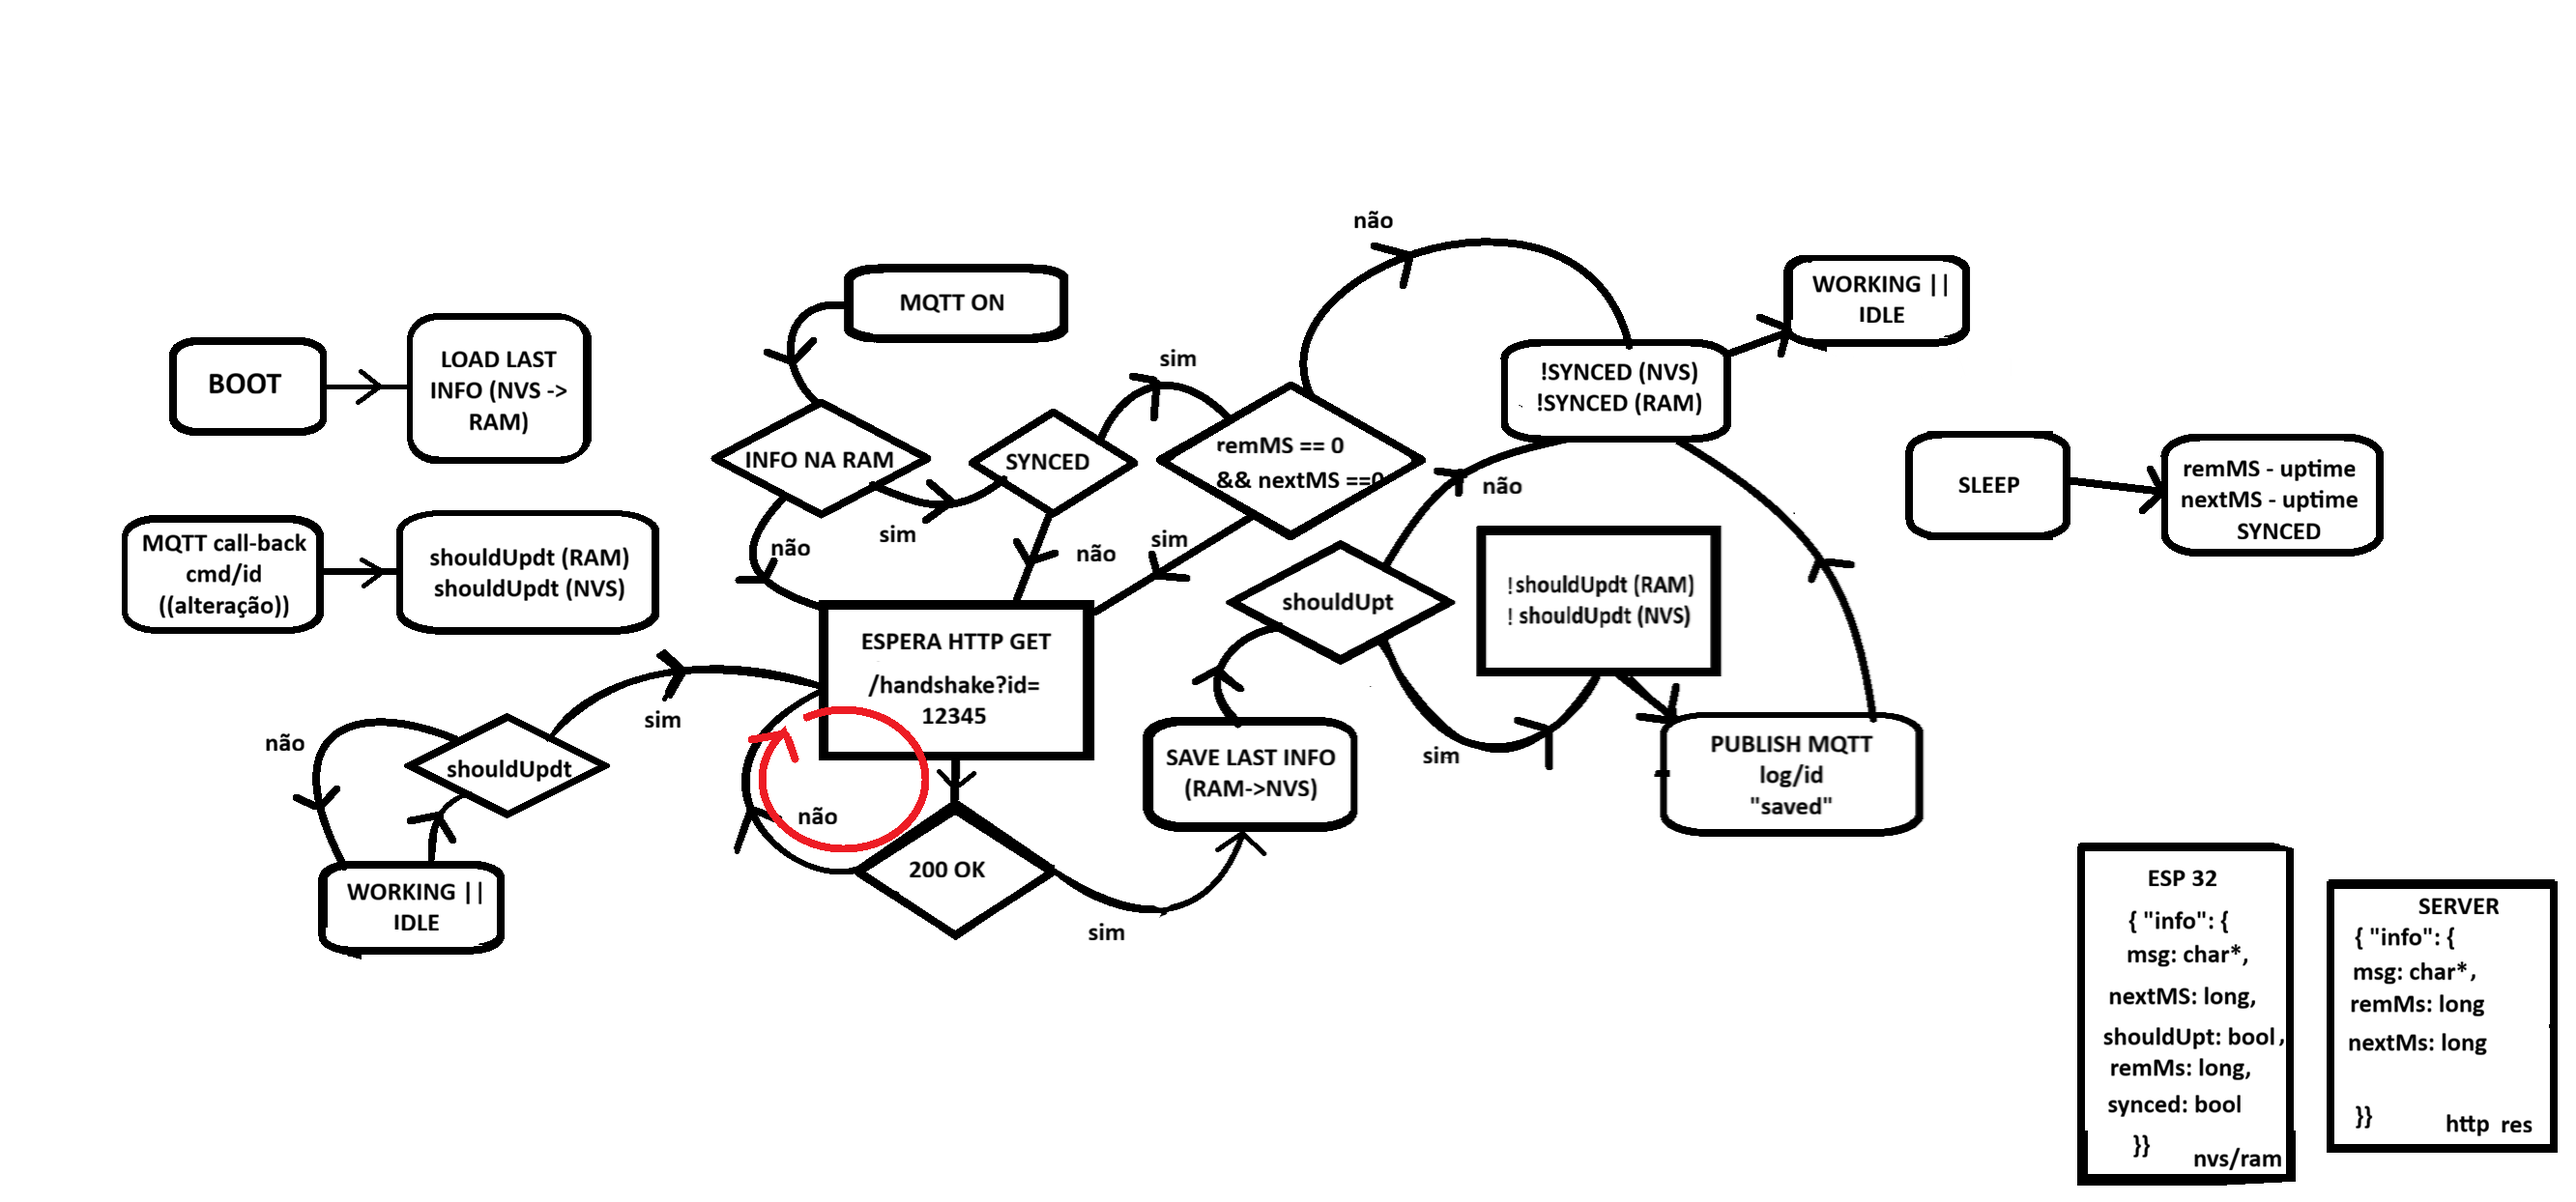
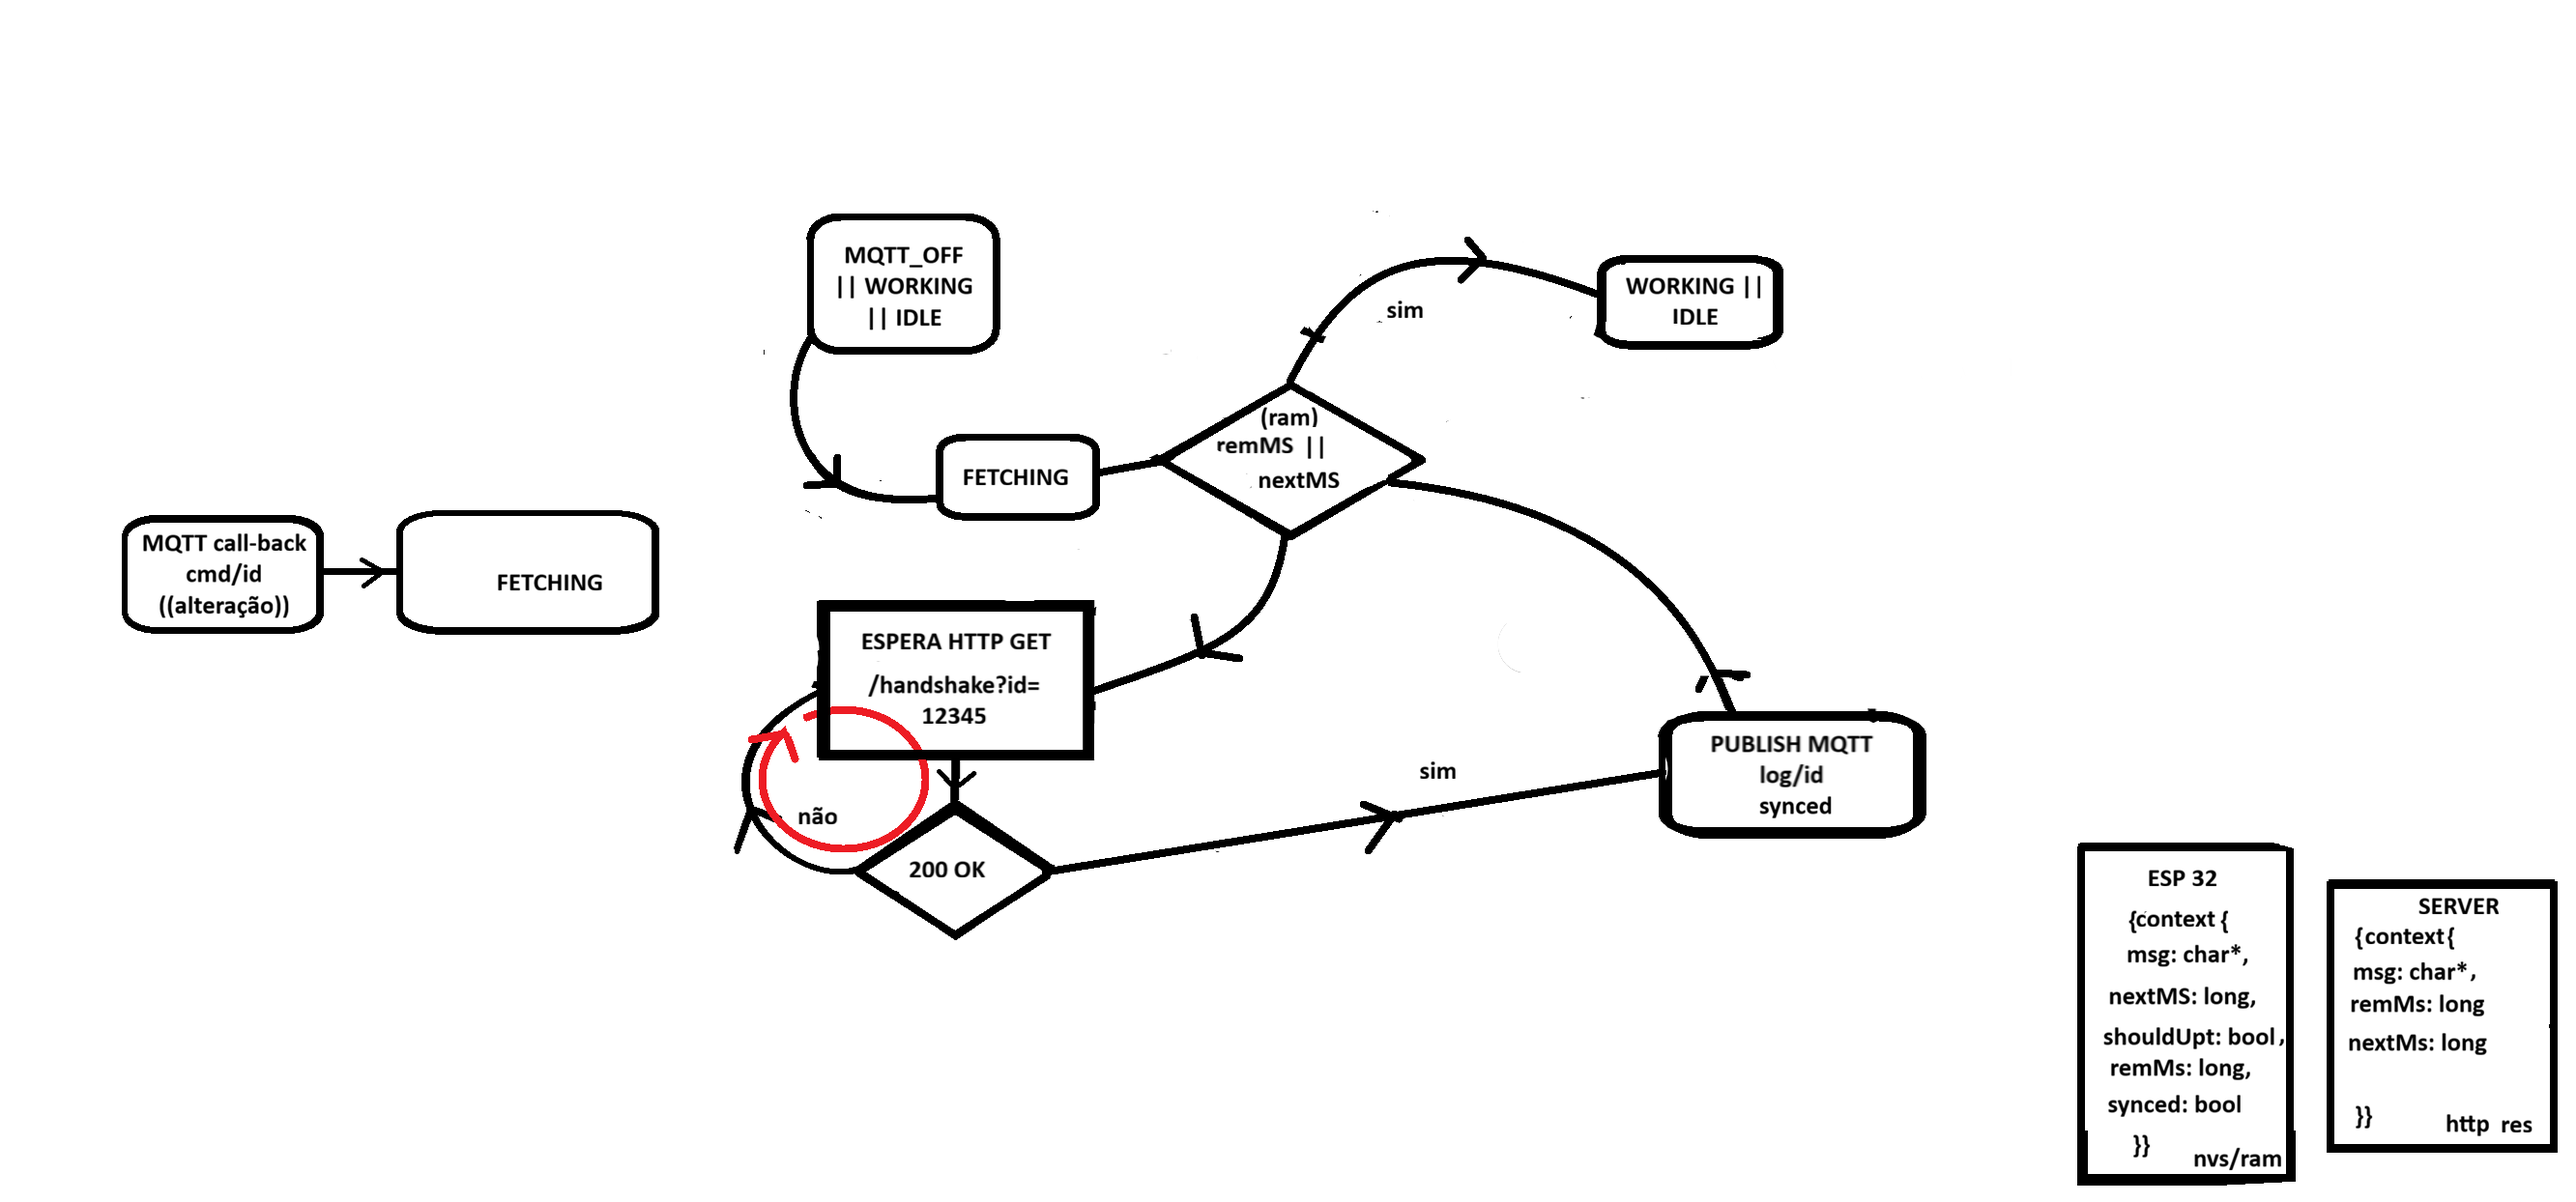
feat: fetch de informações sobre turmas

diff --git a/src/Network.cpp b/src/Network.cpp
@@ -2,6 +2,8 @@
 #include "Display.h"
 #include "Config.h"
 #include "Globals.h"
+#include "Power.h"
+#include "MQTT.h"
 
 namespace network
 {
@@ -27,7 +29,7 @@ namespace network
 
             HTTPClient http;
             http.setTimeout(REST_TIMEOUT_MS);
-            http.begin(REST_URL);
+            http.begin(REST_POST_URL);
 
             http.addHeader("Content-Type", "image/jpeg");
             http.addHeader("X-Device-Id", deviceId);
@@ -43,6 +45,55 @@ namespace network
             }
 
             return resp == HTTP_CODE_OK;
+        }
+
+        bool getContext()
+        {
+            using namespace display;
+
+            if (!isConnected())
+            {
+                return false;
+            }
+
+            HTTPClient http;
+            http.setTimeout(REST_TIMEOUT_MS);
+            http.begin(String(REST_GET_URL) + String(deviceId));
+
+            int resp;
+            const TickType_t start = xTaskGetTickCount();
+            const TickType_t timeout = pdMS_TO_TICKS(REST_TIMEOUT_MS);
+
+            while (resp != HTTP_CODE_OK)
+            {
+                resp = http.GET();
+
+                if (xTaskGetTickCount() - start > timeout)
+                {
+                    sendDisplayMessage("Resposta inválida do servidor! (" + resp + ')', 3000, &ICON_SAD);
+                }
+
+                sendDisplayMessage("Coletando informações da turma...", 0, &ICON_SERVER);
+
+                vTaskDelay(pdMS_TO_TICKS(500));
+            }
+
+            JsonDocument doc;
+            DeserializationError error = deserializeJson(doc, http.getStream());
+            http.end();
+
+            if (error)
+            {
+                sendDisplayMessage("Erro ao analisar informações!", 3000, &ICON_SAD);
+                return false;
+            }
+
+            const char *msgTemp = doc["chair"] | "";
+            strlcpy(context.chair, msgTemp, sizeof(context.chair));
+            context.msForNext = doc["msForNext"] | 0;
+            context.msRemaining = doc["msRemaining"] | 0;
+
+            return true;
         }
 
         bool connWifi()
@@ -117,6 +168,7 @@ namespace network
 
         while (true)
         {
+
             if (checkSleepEvent(delay))
             {
                 break;
@@ -132,22 +184,30 @@ namespace network
                 {
                     setState(SystemState::NET_ON);
                 }
-
                 continue;
             }
 
-            if (checkState(SystemState::WAITING_SERVER))
+            if (checkState(SystemState::FETCHING))
+            {
+                if (context.chair && (context.msForNext || context.msRemaining))
+                {
+                    setState(power::checkIdle() ? SystemState::IDLE : SystemState::WORKING);
+                }
+                else if (getContext())
+                {
+                    mqtt::publish(mqtt::topicLogs, "{\"synced\":true}", true);
+                }
+            }
+            else if (checkState(SystemState::WAITING_SERVER))
             {
                 if (now - lastReqTick > waitInterval)
                 {
                     setState(SystemState::WORKING);
                 }
-
-                continue;
             }
-
-            if (checkState(SystemState::WORKING) &&
-                now - lastReqTick > reqInterval)
+            else if (checkState(SystemState::WORKING) &&
+                     now - lastReqTick > reqInterval &&
+                     context.msRemaining)
             {
                 lastReqTick = now;
 

diff --git a/src/Globals.cpp b/src/Globals.cpp
@@ -14,73 +14,6 @@ TaskHandle_t TaskNetwork;
 TaskHandle_t TaskMqtt;
 AttendanceContext context = AttendanceContext{};
 
-void saveContext(uint8_t flags)
-{
-    Preferences prefs;
-    prefs.begin("context", false);
-
-    if (flags & MSG)
-        prefs.putString("msg", context.msg);
-
-    if (flags & MS_NEXT)
-        prefs.putULong("msForNext", context.msForNext);
-
-    if (flags & MS_REM)
-        prefs.putULong("msRemaining", context.msRemaining);
-
-    if (flags & SYNCED)
-        prefs.putBool("synced", context.synced);
-
-    if (flags & UPDATE)
-        prefs.putBool("shouldUpdate", context.shouldUpdate);
-
-    prefs.end();
-}
-
-bool loadContext(uint8_t flags)
-{
-    Preferences prefs;
-
-    if (!prefs.begin("context", true))
-        return false;
-
-    bool foundAny = false;
-
-    if ((flags & MSG) && prefs.isKey("msg"))
-    {
-        prefs.getString("msg", context.msg, sizeof(context.msg));
-        foundAny = true;
-    }
-
-    if ((flags & MS_NEXT) && prefs.isKey("msForNext"))
-    {
-        context.msForNext = prefs.getULong("msForNext");
-        foundAny = true;
-    }
-
-    if ((flags & MS_REM) && prefs.isKey("msRemaining"))
-    {
-        context.msRemaining = prefs.getULong("msRemaining");
-        foundAny = true;
-    }
-
-    if ((flags & SYNCED) && prefs.isKey("synced"))
-    {
-        context.synced = prefs.getBool("synced");
-        foundAny = true;
-    }
-
-    if ((flags & UPDATE) && prefs.isKey("shouldUpdate"))
-    {
-        context.shouldUpdate = prefs.getBool("shouldUpdate");
-        foundAny = true;
-    }
-
-    prefs.end();
-
-    return foundAny;
-}
-
 void changeTaskCount(short int delta)
 {
     portENTER_CRITICAL(&tasksAliveMux);
@@ -99,7 +32,7 @@ void setState(SystemState newState)
     systemState = newState;
     portEXIT_CRITICAL(&systemStateMux);
 
-    mqtt::publishStatus(stateStr(newState));
+    mqtt::publish(mqtt::topicStatus, stateStr(newState), true);
 }
 
 bool checkState(SystemState state)
@@ -145,6 +78,8 @@ const char *stateStr(SystemState state)
         return "WAITING_SERVER";
     case SystemState::SLEEPING:
         return "SLEEPING";
+    case SystemState::FETCHING:
+        return "FETCHING";
     default:
         return "UNKNOWN";
     }

diff --git a/src/MQTT.cpp b/src/MQTT.cpp
@@ -3,19 +3,15 @@
 #include "Globals.h"
 #include "Network.h"
 #include "Display.h"
-#include "Power.h"
-
-#define MQTT_TOPIC_SIZE 17 // deviceId + '/' + ('log' | 'cmd') + '/0'
-#define MQTT_PAYLOAD_MAX 256
 
 namespace mqtt
 {
+    char topicCmd[MQTT_TOPIC_SIZE];
+    char topicLogs[MQTT_TOPIC_SIZE];
+    char topicStatus[MQTT_TOPIC_SIZE];
+
     namespace
     {
-        char topicCmd[MQTT_TOPIC_SIZE];
-        char topicLogs[MQTT_TOPIC_SIZE];
-        char topicStatus[MQTT_TOPIC_SIZE];
-
         struct MqttMsg
         {
             char topic[MQTT_TOPIC_SIZE];
@@ -117,11 +113,6 @@ namespace mqtt
                 return;
             }
 
-            if (doc["auth"].is<bool>() && doc["auth"])
-            {
-                power::buzzerTriggered = true;
-            }
-
             if (doc["stats"].is<bool>())
             {
                 publishSystemStats();
@@ -145,12 +136,19 @@ namespace mqtt
         return mqtt.connected();
     }
 
-    void publishStatus(const char *payload)
+    void publish(char *topic, char *payload, bool retain)
     {
-        if (isConnected())
+        if (!isConnected())
         {
-            mqtt.publish(topicStatus, payload, true);
+            return;
         }
+
+        MqttMsg msg{};
+        strcpy(msg.topic, topicLogs);
+        strcpy(msg.payload, payload);
+        msg.retain = retain;
+
+        xQueueSend(mqttQueue, &msg, 0);
     }
 
     void TaskMqttCode(void *pvParameters)
@@ -193,9 +191,11 @@ namespace mqtt
 
                 if (connMqtt())
                 {
-                    SystemState newState = power::checkIdle() ? SystemState::IDLE : SystemState::WORKING;
-                    setState(newState);
+                    setState(SystemState::FETCHING);
                 }
+
+                mqtt.loop();
+                continue;
             }
 
             if ((xTaskGetTickCount() - lastLogTick) > logInterval && xQueueReceive(mqttQueue, &lastMsg, 0) == pdTRUE)

diff --git a/include/Globals.h b/include/Globals.h
@@ -3,7 +3,7 @@
 #include <Preferences.h>
 #define EVT_SLEEP (1 << 0)
 
-#define FB_MSG_LENGTH 256
+#define CHAIR_STR_LENGTH 256
 
 enum class SystemState
 {
@@ -14,26 +14,15 @@ enum class SystemState
     IDLE,
     WORKING,
     WAITING_SERVER,
+    FETCHING,
     SLEEPING
-};
-
-enum ContextFields
-{
-    MSG = 1 << 0,     // 00000001
-    MS_NEXT = 1 << 1, // 00000010
-    MS_REM = 1 << 2,  // 00000100
-    SYNCED = 1 << 3,  // 00001000
-    UPDATE = 1 << 4,  // 00010000
-    ALL = 0xFF        // 11111111
 };
 
 struct AttendanceContext
 {
-    char msg[FB_MSG_LENGTH];
+    char chair[CHAIR_STR_LENGTH];
     unsigned long msForNext;
     unsigned long msRemaining;
-    bool synced;
-    bool shouldUpdate;
 };
 
 extern AttendanceContext context;
@@ -43,8 +32,6 @@ extern TaskHandle_t TaskDisplay;
 extern TaskHandle_t TaskNetwork;
 extern TaskHandle_t TaskMqtt;
 
-void saveContext(uint8_t fields = ALL);
-bool loadContext(uint8_t fiels = ALL);
 void changeTaskCount(short int delta);
 short int checkTaskCount();
 void setState(SystemState newState);

diff --git a/include/MQTT.h b/include/MQTT.h
@@ -2,9 +2,16 @@
 #include <ArduinoJson.h>
 #include <PubSubClient.h>
 
+#define MQTT_TOPIC_SIZE 17 // deviceId + '/' + ('log' | 'cmd') + '/0'
+#define MQTT_PAYLOAD_MAX 256
+
 namespace mqtt
 {
+    extern char topicCmd[MQTT_TOPIC_SIZE];
+    extern char topicLogs[MQTT_TOPIC_SIZE];
+    extern char topicStatus[MQTT_TOPIC_SIZE];
+
     bool isConnected();
-    void publishStatus(const char *payload);
+    void publish(char *topic, const char *payload, bool retain = false);
     void TaskMqttCode(void *pvParameters);
 }

diff --git a/include/Network.h b/include/Network.h
@@ -2,6 +2,7 @@
 #include "Arduino.h"
 #include <WiFi.h>
 #include <HTTPClient.h>
+#include <ArduinoJson.h>
 
 namespace network
 {
